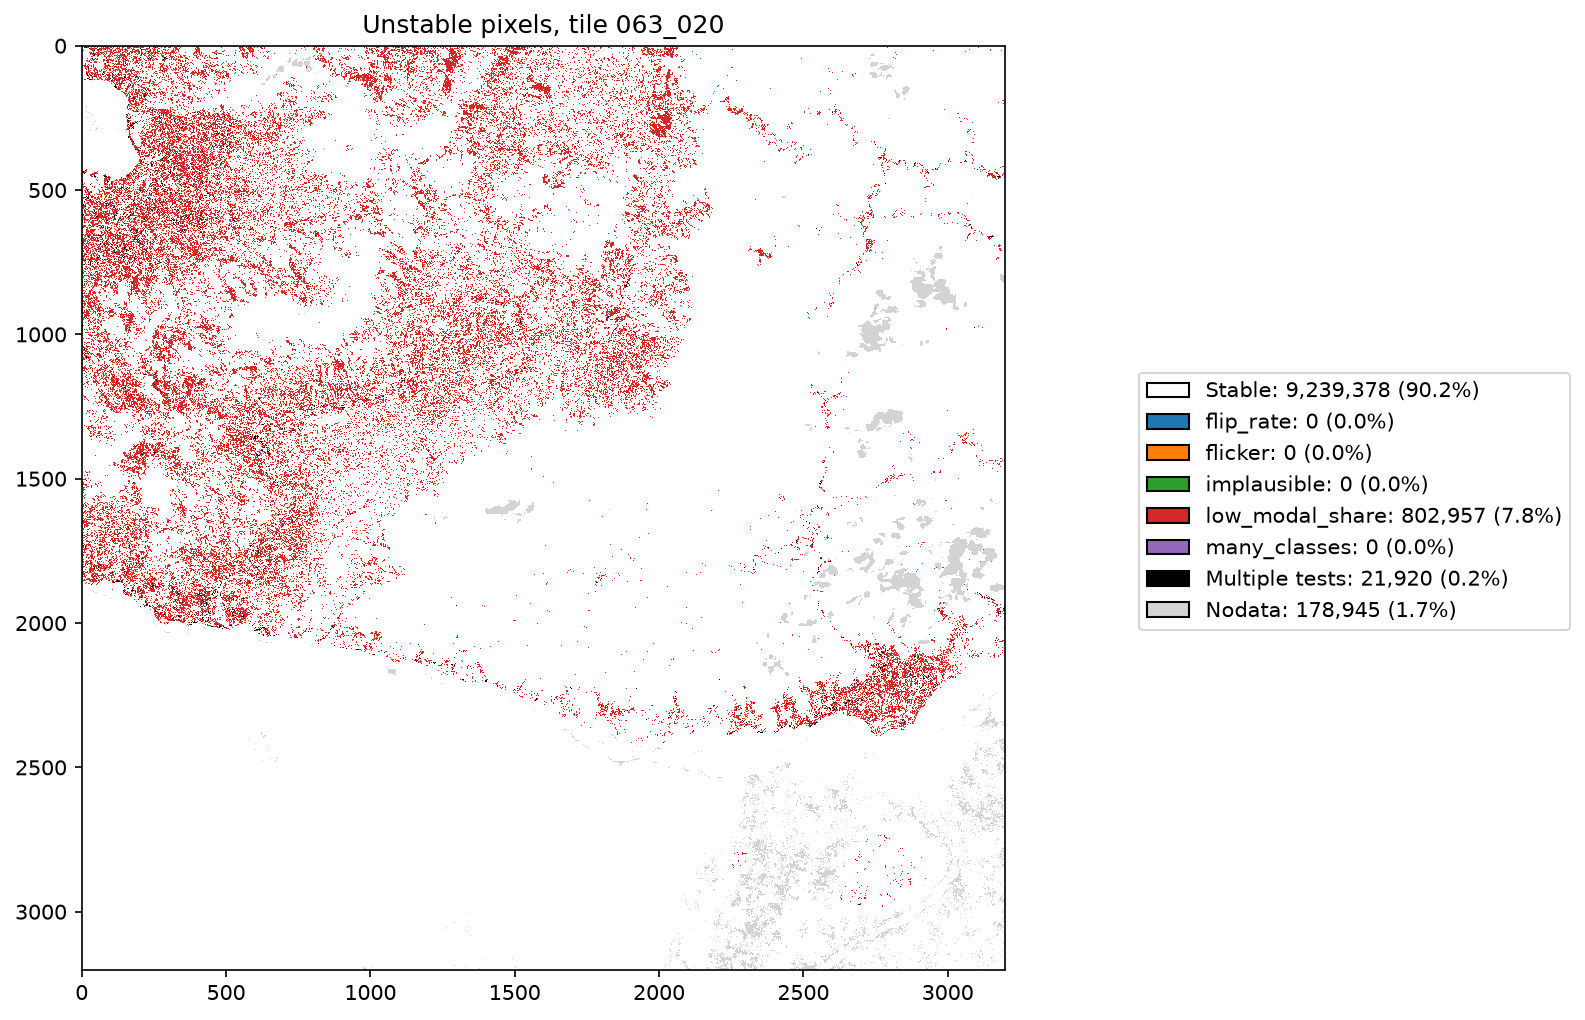
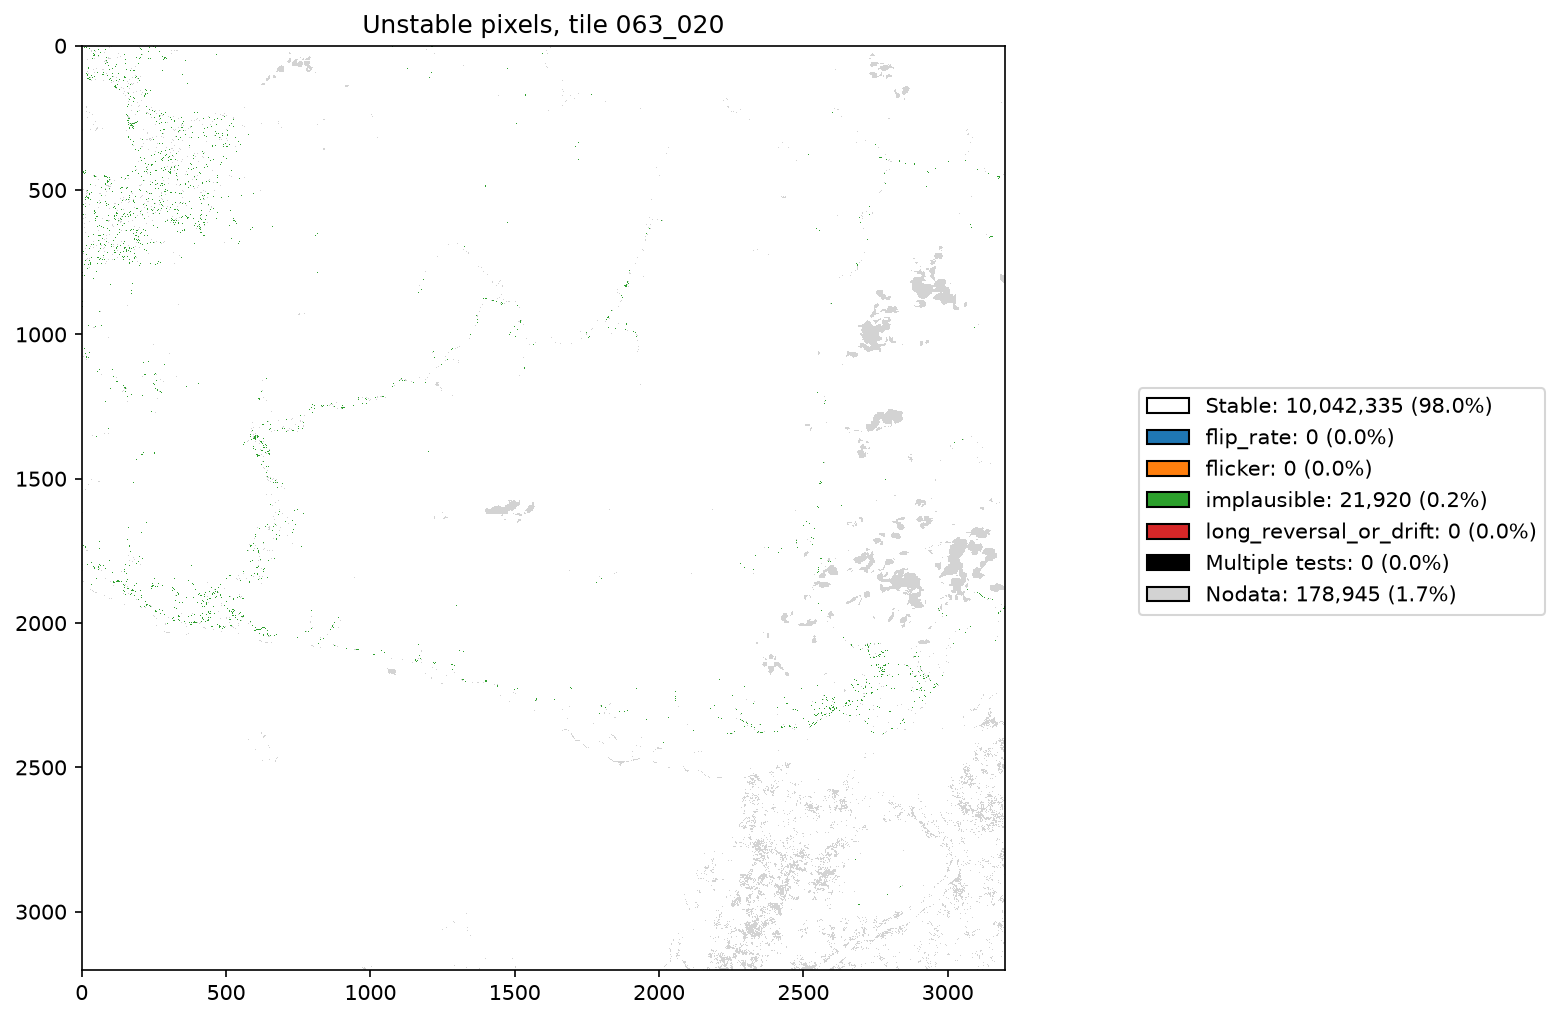
Redesign temporal stability tests

diff --git a/notebooks/LULC_Testing/reports_temporal/0-0-9/temporal_stability.md b/notebooks/LULC_Testing/reports_temporal/0-0-9/temporal_stability.md
@@ -18,8 +18,7 @@
 | flip_rate | more than 4 year-to-year changes |
 | flicker | A -> B -> A where B lasts at most 3 years |
 | implausible | any transition in the implausible list below |
-| low_modal_share | modal class covers less than 80% of years |
-| many_classes | more than 3 distinct classes |
+| long_reversal_or_drift | modal class covers less than 80% of years, more than one change and no flicker |
 
 Implausible transitions: Built-up -> Tree cover, Built-up -> Grassland, Built-up -> Cropland, Built-up -> Wetland, Built-up -> Water, Water -> Built-up, Wetland -> Cropland, Cropland -> Wetland.
 
@@ -27,15 +26,15 @@ Implausible transitions: Built-up -> Tree cover, Built-up -> Grassland, Built-up
 
 A pixel can fail several tests, so the test columns do not sum to `any`. `valid` is the number of pixels tested.
 
-| tile | flip_rate | flicker | implausible | low_modal_share | many_classes | any | valid |
-| - | - | - | - | - | - | - | - |
-| 063_020 | 0 | 0 | 21920 | 824877 | 0 | 824877 | 10064255 |
+| tile | flip_rate | flicker | implausible | long_reversal_or_drift | any | valid |
+| - | - | - | - | - | - | - |
+| 063_020 | 0 | 0 | 21920 | 0 | 21920 | 10064255 |
 
 ## Unstable pixels per tile (% of valid pixels)
 
-| tile | flip_rate | flicker | implausible | low_modal_share | many_classes | any |
-| - | - | - | - | - | - | - |
-| 063_020 | 0.0 | 0.0 | 0.2 | 8.2 | 0.0 | 8.2 |
+| tile | flip_rate | flicker | implausible | long_reversal_or_drift | any |
+| - | - | - | - | - | - |
+| 063_020 | 0.0 | 0.0 | 0.2 | 0.0 | 0.2 |
 
 ## Unstable pixel map
 
@@ -50,6 +49,25 @@ Each A -> B -> A event is found at the first year the pixel returns to A.
 ## Implausible transitions
 
 ![Implausible transitions 063_020](implausible_transitions_063_020.png)
+
+## Class stability
+
+Mean share of years each pixel is in its modal class, grouped by modal class. Lower values mean pixels of that class
+spend more years in other classes, from real change or misclassification.
+
+| tile | class | pixels | mean_modal_share |
+| - | - | - | - |
+| 063_020 | Tree cover | 6125579 | 0.942 |
+| 063_020 | Grassland | 604735 | 0.928 |
+| 063_020 | Cropland | 101823 | 0.894 |
+| 063_020 | Wetland | 33405 | 0.925 |
+| 063_020 | Built-up | 29621 | 0.957 |
+| 063_020 | Water | 3167894 | 1.0 |
+| 063_020 | Other | 1198 | 1.0 |
+
+## Distinct classes per pixel
+
+![Distinct classes 063_020](distinct_classes_063_020.png)
 
 ## Class area time series
 
